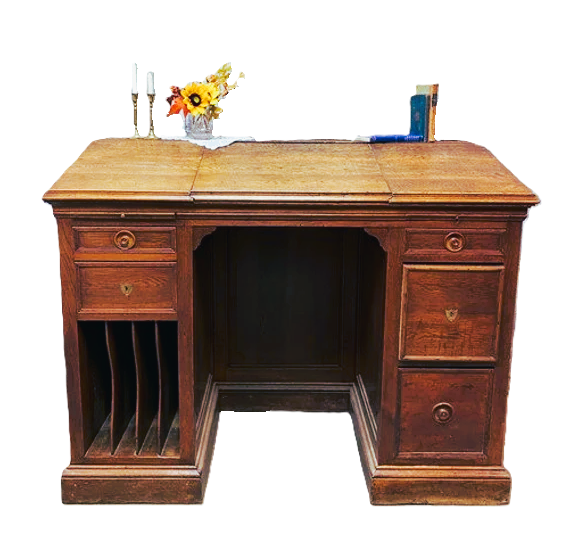
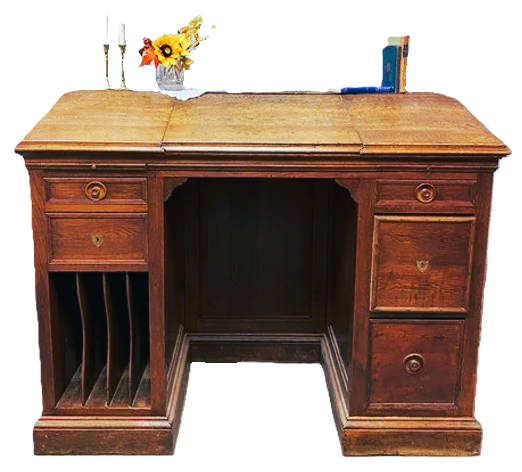
GLDS!

diff --git a/Yours.css b/Yours.css
@@ -193,10 +193,10 @@ body .lefto, .raito, .perkš, .Nazad {
 }
 
 .Gld {
-  left: 110px;
-  top: 196px;
-  width: 490px;
-  height: 400px;
+  left: 140px;
+  top: 205px;
+  width: 440px;
+  height: 390px;
 }
 
 .MLa {
